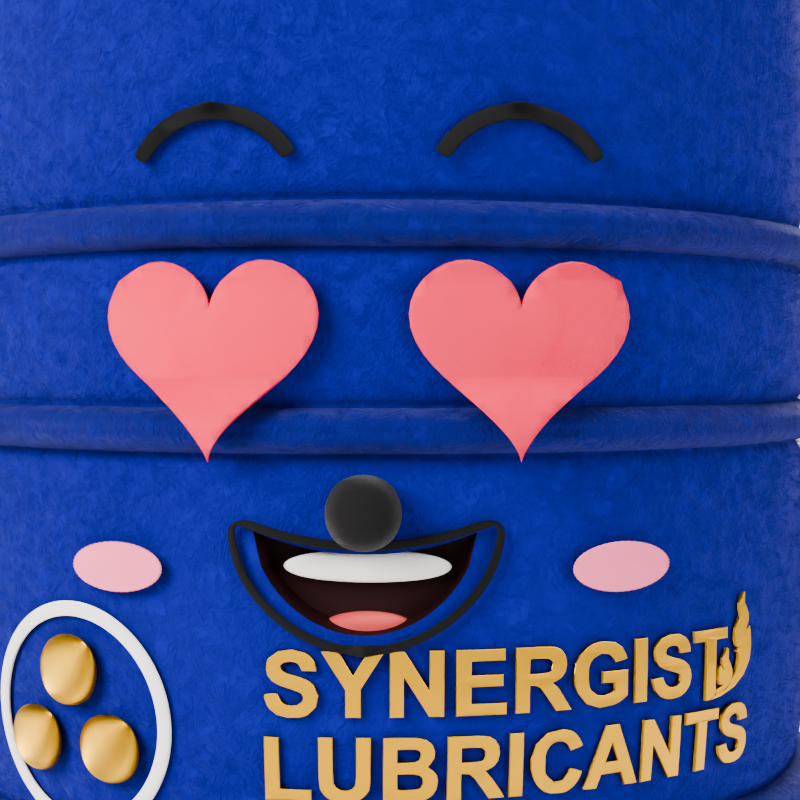
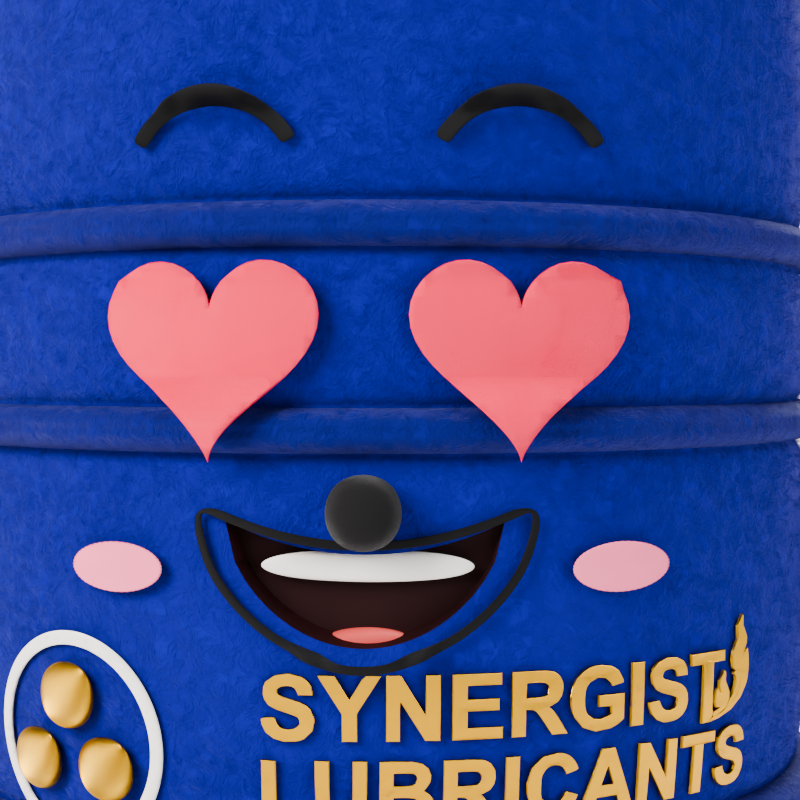
Face tuning pass: stronger brows, bigger mouths, new shapes, presets
Review 2 so expressions read at sticker size. Brows: raise +6 cm, angry
45 deg inner-down pressed onto the eye, sad 40 deg inner-up, new furrow.
Eyes: new lid_flat (flat-top half lids). Mouths ~1.4x larger plus new
shapes wail (crying, open downturned), wavy (worried), flat_side
(annoyed/thinking), smirk_tight (determined); outline model gained wave and
sideways shift, teeth/tongue follow the shift. Tears are wider glossy
rivers from the lower outer eye corners; sweat drop bigger and blue. All 20
presets retuned (Sad vs Worried distinct, Annoyed half-lidded, Thinking
looks up-right). Logo moved 2 cm lower with an 80% badge to make room.
Expression renders and sheet regenerated (Cycles 128 spp, 221 s total).

diff --git a/scripts/04_face.py b/scripts/04_face.py
@@ -98,11 +98,15 @@ CONTROLS = {
     # brows
     "brow_raise_L": (0.0, 0.0, 1.0), "brow_raise_R": (0.0, 0.0, 1.0),
     "brow_lower": (0.0, 0.0, 1.0), "brow_angry": (0.0, 0.0, 1.0), "brow_sad": (0.0, 0.0, 1.0),
+    "brow_furrow": (0.0, 0.0, 1.0),
+    "lid_flat": (0.0, 0.0, 1.0),                                   # flat-top half lids (annoyed)
     # mouth shapes
     "m_small_smile": (0.0, 0.0, 1.0), "m_big_smile": (0.0, 0.0, 1.0), "m_laugh": (0.0, 0.0, 1.0),
     "m_O": (0.0, 0.0, 1.0), "m_flat": (0.0, 0.0, 1.0), "m_frown": (0.0, 0.0, 1.0),
     "m_smirk_L": (0.0, 0.0, 1.0), "m_smirk_R": (0.0, 0.0, 1.0), "m_pout": (0.0, 0.0, 1.0),
     "m_teeth": (0.0, 0.0, 1.0), "m_tongue_out": (0.0, 0.0, 1.0), "m_shout": (0.0, 0.0, 1.0),
+    "m_wail": (0.0, 0.0, 1.0), "m_wavy": (0.0, 0.0, 1.0), "m_flat_side": (0.0, 0.0, 1.0),
+    "m_smirk_tight": (0.0, 0.0, 1.0),
     # visemes
     "v_A": (0.0, 0.0, 1.0), "v_E": (0.0, 0.0, 1.0), "v_I": (0.0, 0.0, 1.0), "v_O": (0.0, 0.0, 1.0),
     "v_U": (0.0, 0.0, 1.0), "v_MBP": (0.0, 0.0, 1.0), "v_FV": (0.0, 0.0, 1.0),
@@ -371,27 +375,37 @@ def build_eyes():
         for obj in (outline, white, pupil, highlight):
             add_shape_key(obj, "Blink", blink_fn)
             drive_key(obj, "Blink", f"blink_{S}", [f"blink_{S}"])
+        # flat-top half lid: everything above a line ~40% down from the eye top is pressed flat
+        lid_line = cz + 0.032
+        lid_fn = lambda co: Vector((co.x, co.y, lid_line + (co.z - lid_line) * 0.08)) if co.z > lid_line else co
+        for obj in (outline, white, pupil, highlight):
+            add_shape_key(obj, "LidFlat", lid_fn)
+            drive_key(obj, "LidFlat", "lid_flat", ["lid_flat"])
         for lid in (eyelid_upper, eyelid_lower):
             lid.hide_render = True
             lid.hide_viewport = True
         # --- Brow ---
         px, pz = cx, BROW_CZ + 0.083
         # Raise
-        add_shape_key(brow, "Raise", xz_move(0, 0.035))
+        add_shape_key(brow, "Raise", xz_move(0, 0.06))
         drive_key(brow, "Raise", f"brow_raise_{S}", [f"brow_raise_{S}"])
         # Lower
         add_shape_key(brow, "Lower", xz_move(0, -0.02))
         drive_key(brow, "Lower", "brow_lower", ["brow_lower"])
         # Angry (inner down)
-        angle_angry = inner_sign * -math.radians(32)  # review: 18 deg was too subtle on the arched brow
-        angry_fn = lambda co: xz_move(0, -0.022)(xz_rotate(px, pz, angle_angry)(co))
+        angle_angry = inner_sign * -math.radians(45)  # inner end down, brow pressed onto the eye top
+        angry_fn = lambda co: xz_move(0, -0.032)(xz_rotate(px, pz, angle_angry)(co))
         add_shape_key(brow, "Angry", angry_fn)
         drive_key(brow, "Angry", "brow_angry", ["brow_angry"])
         # Sad (inner up)
-        angle_sad = inner_sign * math.radians(28)
-        sad_fn = lambda co: xz_move(0, 0.01)(xz_rotate(px, pz, angle_sad)(co))
+        angle_sad = inner_sign * math.radians(40)  # inner end up
+        sad_fn = lambda co: xz_move(0, 0.015)(xz_rotate(px, pz, angle_sad)(co))
         add_shape_key(brow, "Sad", sad_fn)
         drive_key(brow, "Sad", "brow_sad", ["brow_sad"])
+        # Furrow / scrunch: pulled toward the nose, lowered and flattened
+        furrow_fn = lambda co: Vector((co.x - inner_sign * -0.022, co.y, pz - 0.015 + (co.z - pz) * 0.6))
+        add_shape_key(brow, "Furrow", furrow_fn)
+        drive_key(brow, "Furrow", "brow_furrow", ["brow_furrow"])
 
         # --- Hide open eye when replaced by arcs/props ---
         vis_expr = (f"happy_{S} > 0.5 or closed_smile > 0.5 or blink_{S} > 0.9"
@@ -437,7 +451,7 @@ RIG_MATERIAL_HOOKS = []  # later sections append (lookdev, mats) -> None callbac
 
 
 # >>> SECTION mouth
-def _mouth_outline(w, h, sag=0.0, lift=0.0, asym=0.0, r=0.5, dz=0.0, n=48):
+def _mouth_outline(w, h, sag=0.0, lift=0.0, asym=0.0, r=0.5, dz=0.0, n=48, wave=0.0, dx=0.0):
     """Return list of n (u, v) points for a closed mouth outline, CCW.
     Top edge: k = 0..n/2 from right to left, bottom edge: k = 1..n/2-1 from left to right.
     """
@@ -447,38 +461,42 @@ def _mouth_outline(w, h, sag=0.0, lift=0.0, asym=0.0, r=0.5, dz=0.0, n=48):
     for k in range(half + 1):
         u = w / 2 - w * k / half
         s = 2 * u / w
-        v = dz + lift * s * s - sag * (1 - s * s) + asym * 0.03 * s
-        pts.append((u, v))
+        v = dz + lift * s * s - sag * (1 - s * s) + asym * 0.03 * s + wave * math.sin(3 * math.pi * s)
+        pts.append((u + dx, v))
     # Bottom edge (left to right, excluding endpoints already included)
     for k in range(1, half):
         u = -w / 2 + w * k / half
         s = 2 * u / w
-        v_top = dz + lift * s * s - sag * (1 - s * s) + asym * 0.03 * s
+        v_top = dz + lift * s * s - sag * (1 - s * s) + asym * 0.03 * s + wave * math.sin(3 * math.pi * s)
         v = v_top - h * max(1 - s * s, 0) ** r
-        pts.append((u, v))
+        pts.append((u + dx, v))
     return pts
 
-# Limits (review): the wordmark starts ~0.099 below MOUTH_TOP and the nose sits right on MOUTH_TOP,
-# so every shape keeps its bottom above -0.092 and its top edge at or below 0; open shapes grow wider.
+# Limits (review 2): mouths read at sticker size, so open shapes are ~1.4x bigger. The logo moved
+# 0.02 lower, so bottoms may reach -0.115 below MOUTH_TOP; the nose may overlap the top lip slightly.
 MOUTH_SHAPES = {
     "rest": dict(w=MOUTH_W, h=MOUTH_H),
-    "small_smile": dict(w=0.17, h=0.012, lift=0.025, dz=-0.012),
-    "big_smile": dict(w=0.25, h=0.085, lift=0.03),
-    "laugh": dict(w=0.27, h=0.09, lift=0.035, r=0.4),
-    "O": dict(w=0.09, h=0.075, sag=-0.012, dz=-0.015),
-    "flat": dict(w=0.16, h=0.010, dz=-0.01),
-    "frown": dict(w=0.17, h=0.02, lift=-0.03, dz=-0.01),
-    "smirk_L": dict(w=0.17, h=0.015, asym=1, dz=-0.012),
-    "smirk_R": dict(w=0.17, h=0.015, asym=-1, dz=-0.012),
-    "pout": dict(w=0.08, h=0.03, sag=-0.008, dz=-0.02),
-    "shout": dict(w=0.24, h=0.09, r=0.3),
-    "vA": dict(w=0.18, h=0.088, r=0.45),
-    "vE": dict(w=0.22, h=0.05, lift=0.01, r=0.4),
-    "vI": dict(w=0.20, h=0.03, lift=0.015),
-    "vO": dict(w=0.11, h=0.08, sag=-0.01, dz=-0.012),
-    "vU": dict(w=0.07, h=0.05, sag=-0.008, dz=-0.02),
-    "vMBP": dict(w=0.15, h=0.006, dz=-0.005),
-    "vFV": dict(w=0.16, h=0.025, dz=-0.005),
+    "small_smile": dict(w=0.24, h=0.014, lift=0.035, dz=-0.012),
+    "big_smile": dict(w=0.32, h=0.10, lift=0.04),
+    "laugh": dict(w=0.34, h=0.112, lift=0.04, r=0.4),
+    "O": dict(w=0.13, h=0.11, sag=-0.018, dz=-0.004),
+    "flat": dict(w=0.20, h=0.012, dz=-0.012),
+    "frown": dict(w=0.22, h=0.026, lift=-0.05, dz=-0.004),
+    "smirk_L": dict(w=0.20, h=0.016, asym=1.4, dz=-0.014),
+    "smirk_R": dict(w=0.20, h=0.016, asym=-1.4, dz=-0.014),
+    "pout": dict(w=0.10, h=0.04, sag=-0.01, dz=-0.02),
+    "shout": dict(w=0.30, h=0.112, r=0.3),
+    "wail": dict(w=0.28, h=0.085, lift=-0.05, r=0.45),            # crying: wide open downturned mouth
+    "wavy": dict(w=0.17, h=0.012, wave=0.010, dz=-0.02),          # worried
+    "flat_side": dict(w=0.13, h=0.011, dx=0.07, asym=-0.4, dz=-0.015),   # annoyed, pushed to one side
+    "smirk_tight": dict(w=0.15, h=0.010, asym=1.2, dx=0.035, dz=-0.015),  # determined
+    "vA": dict(w=0.20, h=0.10, r=0.45),
+    "vE": dict(w=0.25, h=0.055, lift=0.01, r=0.4),
+    "vI": dict(w=0.23, h=0.032, lift=0.015),
+    "vO": dict(w=0.12, h=0.09, sag=-0.012, dz=-0.008),
+    "vU": dict(w=0.08, h=0.055, sag=-0.008, dz=-0.02),
+    "vMBP": dict(w=0.17, h=0.006, dz=-0.008),
+    "vFV": dict(w=0.18, h=0.026, dz=-0.006),
 }
 
 def _set_key(obj, key_name, coords):
@@ -509,7 +527,8 @@ def _mouth_outline_points(shape_name):
     asym = params.get("asym", 0.0)
     r = params.get("r", 0.5)
     dz = params.get("dz", 0.0)
-    return _mouth_outline(w, h, sag, lift, asym, r, dz)
+    return _mouth_outline(w, h, sag, lift, asym, r, dz,
+                          wave=params.get("wave", 0.0), dx=params.get("dx", 0.0))
 
 def _compute_lip_band_coords(shape_name):
     """Return two lists: inner loop coords and outer loop coords (world space) for the lip band."""
@@ -640,6 +659,10 @@ def build_mouth():
             "vU": "v_U",
             "vMBP": "v_MBP",
             "vFV": "v_FV",
+            "wail": "m_wail",
+            "wavy": "m_wavy",
+            "flat_side": "m_flat_side",
+            "smirk_tight": "m_smirk_tight",
         }
         ctrl_name = control_map[shape_name]
         drive_key(lip_obj, f"S_{shape_name}", ctrl_name, [ctrl_name])
@@ -716,7 +739,7 @@ def build_mouth():
         push_y = 0.03 if is_closed else 0.0
         new_coords = []
         for v in basis_teeth_coords:
-            nx = FACE_X + (v.x - FACE_X) * scale_x
+            nx = FACE_X + params.get("dx", 0.0) + (v.x - FACE_X) * scale_x
             ny = v.y + push_y
             nz = v.z + dz_trans
             # For vFV, lower by 0.012
@@ -772,7 +795,7 @@ def build_mouth():
         push_y = 0.045 if is_closed else 0.0
         new_coords = []
         for v in basis_tongue_coords:
-            nx = v.x
+            nx = v.x + params.get("dx", 0.0)
             ny = v.y + push_y
             nz = v.z + dz_trans
             new_coords.append(Vector((nx, ny, nz)))
@@ -997,30 +1020,30 @@ def build_props():
     # Sweat drop
     cx = FACE_X + 0.33
     cz = hoop_z(0.29) + 0.05
-    obj = outline_patch("Prop_Sweat", _drop_pts(0.028, 0.075), cx, cz, 3, None, subsurf=False)
+    obj = outline_patch("Prop_Sweat", _drop_pts(0.045, 0.115), cx, cz, 3, None, subsurf=False)
     drive_hidden(obj, "prop_sweat <= 0.5", ["prop_sweat"])
     new_objects.append(obj)
     # Tears
     for side in ("Left", "Right"):
         outer = 1 if side == "Left" else -1
-        cx = eye_x(side) + outer * 0.06
-        cz = EYE_Z - 0.13
+        cx = eye_x(side) + outer * 0.075   # lower outer eye corner
+        cz = EYE_Z - 0.115
         # stream rows
         rows = []
-        for offset in (-0.016, 0.0, 0.016):
+        for offset in (-0.026, 0.0, 0.026):
             row = []
             for i in range(16):
                 v = -0.13 * (i / 15)
-                u_base = outer * 0.03 + 0.006 * math.sin(v * 20)
-                row.append((u_base + offset, v))
+                u_base = outer * (0.03 + 0.25 * -v) + 0.008 * math.sin(v * 30)
+                row.append((u_base + offset * (1.0 + 0.5 * i / 15), v))  # river widens as it flows
             rows.append(row)
         stream = strip_patch(f"Prop_Tear_{side}", rows, cx, cz, 3, None)
         drive_hidden(stream, "prop_tears <= 0.5", ["prop_tears"])
         new_objects.append(stream)
         # drop at end
-        drop_cx = cx + outer * 0.03  # under the stream, which runs at u = outer*0.03
+        drop_cx = cx + outer * (0.03 + 0.25 * 0.13)  # at the end of the stream
         drop_cz = cz - 0.15
-        drop = outline_patch(f"Prop_TearDrop_{side}", _drop_pts(0.022, 0.05),
+        drop = outline_patch(f"Prop_TearDrop_{side}", _drop_pts(0.034, 0.075),
                               drop_cx, drop_cz, 3, None, subsurf=False)
         drive_hidden(drop, "prop_tears <= 0.5", ["prop_tears"])
         new_objects.append(drop)
@@ -1052,11 +1075,11 @@ def _props_materials(lookdev, mats):
     mapping = {
         "Blush_Left": ("MAT_Satin_Blush", "#F07C9A", 30),
         "Blush_Right": ("MAT_Satin_Blush", "#F07C9A", 30),
-        "Prop_Sweat": ("MAT_Satin_Water", "#A8DDF5", 80),
-        "Prop_Tear_Left": ("MAT_Satin_Water", "#A8DDF5", 80),
-        "Prop_Tear_Right": ("MAT_Satin_Water", "#A8DDF5", 80),
-        "Prop_TearDrop_Left": ("MAT_Satin_Water", "#A8DDF5", 80),
-        "Prop_TearDrop_Right": ("MAT_Satin_Water", "#A8DDF5", 80),
+        "Prop_Sweat": ("MAT_Satin_Sweat", "#7FC8F2", 80),
+        "Prop_Tear_Left": ("MAT_Satin_Tear", "#D8F2FF", 90),
+        "Prop_Tear_Right": ("MAT_Satin_Tear", "#D8F2FF", 90),
+        "Prop_TearDrop_Left": ("MAT_Satin_Tear", "#D8F2FF", 90),
+        "Prop_TearDrop_Right": ("MAT_Satin_Tear", "#D8F2FF", 90),
         "Prop_Star_Left": ("MAT_Satin_Star", "#FFC93C", 45),
         "Prop_Star_Right": ("MAT_Satin_Star", "#FFC93C", 45),
         "Prop_Heart_Left": ("MAT_Satin_Heart", "#E2324F", 45),
@@ -1079,7 +1102,22 @@ def _props_materials(lookdev, mats):
         obj.data.materials.clear()
         obj.data.materials.append(mat)
 
+def _glossy_water(lookdev, mats):
+    """Tears and sweat read as glossy embroidery: smoother thread with a clear coat."""
+    for name in ("MAT_Satin_Tear", "MAT_Satin_Sweat"):
+        m = mats.get(name)
+        if m is None:
+            continue
+        b = m.node_tree.nodes.get("Principled BSDF")
+        if b is None:
+            b = next(n for n in m.node_tree.nodes if n.type == "BSDF_PRINCIPLED")
+        b.inputs["Roughness"].default_value = 0.15
+        if "Coat Weight" in b.inputs:
+            b.inputs["Coat Weight"].default_value = 0.7
+
+
 RIG_MATERIAL_HOOKS.append(_props_materials)
+RIG_MATERIAL_HOOKS.append(_glossy_water)
 # <<< SECTION props
 
 PRESETS = {}  # filled by the presets section: name -> {control: value}
@@ -1087,26 +1125,28 @@ PRESETS = {}  # filled by the presets section: name -> {control: value}
 # >>> SECTION presets
 # Expression presets (authored in review): Face_Ctrl values; unlisted controls stay at default.
 PRESETS.update({
-    "Happy": dict(m_big_smile=0.7, m_teeth=0.3, eye_wide=0.1, brow_raise_L=0.3, brow_raise_R=0.3, cheek_puff=0.2),
-    "Big laugh": dict(m_laugh=1.0, m_teeth=0.6, happy_L=1, happy_R=1, brow_raise_L=0.5, brow_raise_R=0.5, cheek_puff=0.4),
-    "Wink": dict(blink_L=1.0, m_smirk_L=0.8, brow_raise_R=0.4, look_x=0.4),
-    "Grateful": dict(closed_smile=1, m_small_smile=1.0, brow_sad=0.4, blush=1, cheek_puff=0.3),
-    "Excited": dict(prop_stars=1, m_laugh=0.8, m_teeth=0.5, brow_raise_L=0.7, brow_raise_R=0.7),
-    "Love": dict(prop_hearts=1, m_big_smile=0.8, blush=1, brow_raise_L=0.3, brow_raise_R=0.3),
-    "Proud": dict(closed_smile=1, m_smirk_L=0.7, brow_raise_L=0.3, brow_raise_R=0.3, cheek_puff=0.2),
-    "Surprised": dict(eye_wide=1.0, pupil_size=-0.4, brow_raise_L=1.0, brow_raise_R=1.0, m_O=0.8),
-    "Shocked": dict(eye_wide=1.0, pupil_size=-1.0, brow_raise_L=1.0, brow_raise_R=1.0, m_shout=1.0, m_teeth=0.3),
-    "Thinking": dict(look_x=-1.0, look_y=1.0, brow_raise_L=0.9, brow_lower=0.3, m_smirk_R=0.6, m_flat=0.3),
-    "Confused": dict(prop_dizzy=1, brow_raise_L=0.8, brow_sad=0.3, m_smirk_R=0.5, m_O=0.3),
-    "Shy": dict(blush=1, look_x=-0.8, look_y=-0.6, pupil_size=0.3, brow_sad=0.4, m_small_smile=0.8),
-    "Embarrassed": dict(prop_sweat=1, blush=0.6, m_big_smile=0.4, m_teeth=1.0, brow_sad=0.6, squint_L=0.2, squint_R=0.2),
-    "Worried": dict(brow_sad=1.0, m_frown=0.6, eye_wide=0.3, look_x=0.5, pupil_size=-0.3),
-    "Sad": dict(brow_sad=1.0, m_frown=1.0, look_y=-1.0, blink_L=0.3, blink_R=0.3, pupil_size=0.4),
-    "Crying": dict(prop_tears=1, brow_sad=1.0, squint_L=0.8, squint_R=0.8, m_shout=0.6, look_y=-0.5),
-    "Annoyed": dict(blink_L=0.45, blink_R=0.45, brow_angry=0.5, m_flat=1.0, look_x=0.7),
-    "Determined": dict(brow_angry=0.9, squint_L=0.4, squint_R=0.4, m_smirk_L=0.5, m_flat=0.5, cheek_puff=0.1),
-    "Sleepy": dict(blink_L=0.7, blink_R=0.7, brow_sad=0.3, m_pout=0.6, look_y=-0.3),
-    "Calm": dict(closed_smile=1, m_small_smile=0.7),
+    "Happy": dict(m_big_smile=0.85, m_teeth=0.3, eye_wide=0.15, brow_raise_L=0.45, brow_raise_R=0.45, cheek_puff=0.3),
+    "Big laugh": dict(m_laugh=1.0, m_teeth=0.6, m_tongue_out=0.25, happy_L=1, happy_R=1,
+                      brow_raise_L=0.6, brow_raise_R=0.6, cheek_puff=0.5),
+    "Wink": dict(blink_L=1.0, m_smirk_L=1.0, brow_raise_R=0.6, brow_lower=0.2, look_x=0.4),
+    "Grateful": dict(closed_smile=1, m_small_smile=1.0, brow_sad=0.5, blush=1, cheek_puff=0.3),
+    "Excited": dict(prop_stars=1, m_laugh=0.9, m_teeth=0.5, brow_raise_L=0.9, brow_raise_R=0.9),
+    "Love": dict(prop_hearts=1, m_big_smile=0.9, blush=1, brow_raise_L=0.4, brow_raise_R=0.4),
+    "Proud": dict(closed_smile=1, m_smirk_L=0.9, brow_raise_L=0.5, brow_raise_R=0.5, cheek_puff=0.3),
+    "Surprised": dict(eye_wide=1.0, pupil_size=-0.4, brow_raise_L=1.0, brow_raise_R=1.0, m_O=0.7),
+    "Shocked": dict(eye_wide=1.0, pupil_size=-1.0, brow_raise_L=1.0, brow_raise_R=1.0, brow_furrow=0.2, m_O=1.0),
+    "Thinking": dict(look_x=1.0, look_y=1.0, brow_raise_L=1.0, brow_angry=0.25, m_flat_side=1.0),
+    "Confused": dict(prop_dizzy=1, brow_raise_L=1.0, brow_sad=0.4, m_wavy=1.0),
+    "Shy": dict(blush=1, look_x=-0.8, look_y=-0.6, pupil_size=0.3, brow_sad=0.6, m_small_smile=0.8),
+    "Embarrassed": dict(prop_sweat=1, blush=0.7, m_big_smile=0.5, m_teeth=1.0, brow_sad=0.8,
+                        squint_L=0.2, squint_R=0.2),
+    "Worried": dict(eye_wide=0.8, pupil_size=-0.8, brow_sad=1.0, brow_furrow=0.35, m_wavy=1.0, look_x=0.4),
+    "Sad": dict(brow_sad=1.0, m_frown=1.0, look_y=-1.0, blink_L=0.35, blink_R=0.35, lid_flat=0.4, pupil_size=0.3),
+    "Crying": dict(prop_tears=1, brow_sad=1.0, squint_L=0.8, squint_R=0.8, m_wail=1.0, look_y=-0.5),
+    "Annoyed": dict(lid_flat=1.0, brow_angry=0.8, brow_furrow=0.3, m_flat_side=1.0, look_x=0.7),
+    "Determined": dict(brow_angry=1.0, brow_furrow=0.5, squint_L=0.35, squint_R=0.35, m_smirk_tight=1.0, cheek_puff=0.15),
+    "Sleepy": dict(blink_L=0.7, blink_R=0.7, brow_sad=0.35, m_pout=0.6, look_y=-0.3),
+    "Calm": dict(closed_smile=1, m_small_smile=0.8, brow_raise_L=0.2, brow_raise_R=0.2),
 })
 # <<< SECTION presets
 

diff --git a/scripts/02_model.py b/scripts/02_model.py
@@ -1545,7 +1545,7 @@ def build_logo(mats):
         trace = json.load(f)
 
     S = 0.0006 * 1.15  # wordmark ~15% taller (review 2026-11-10); badge may touch the hoop seams
-    BADGE_SCALE = 0.85
+    BADGE_SCALE = 0.80  # review 2: smaller badge so the logo can sit 2 cm lower
     badge = trace["badge"]
     badge_cx = badge["cx"]
     badge_cy = badge["cy"]
@@ -1596,7 +1596,7 @@ def build_logo(mats):
         v = -(py - cy_box) * S
         return (u, v, 0.0)
 
-    LOGO_CZ = ((hoop_z(0.44) - 0.18) + (hoop_z(0.76) + 0.03)) / 2.0
+    LOGO_CZ = ((hoop_z(0.44) - 0.18) + (hoop_z(0.76) + 0.03)) / 2.0 - 0.02  # room for bigger mouths
 
     def _conform(u, v, d):
         z = LOGO_CZ + v
